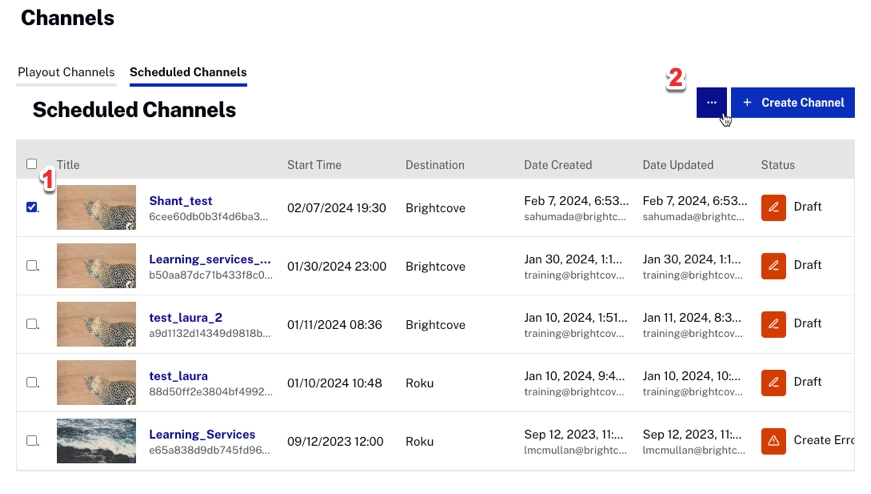
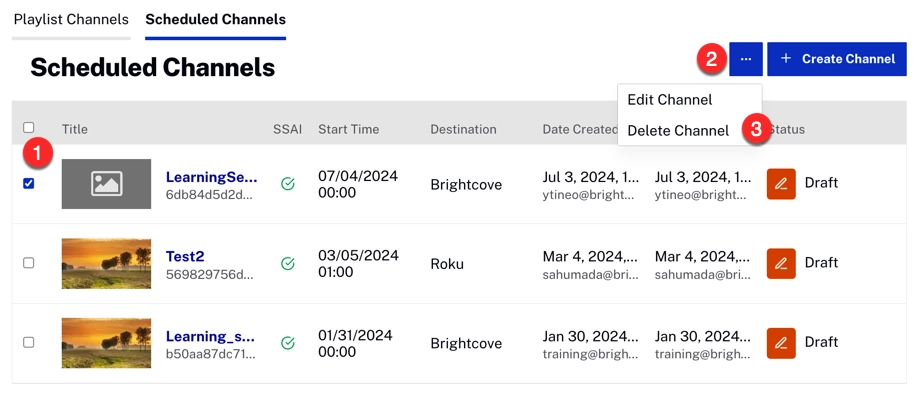
CP channels pt1

diff --git a/_site/channels/fast/getting-started.html b/_site/channels/fast/getting-started.html
@@ -3480,11 +3480,17 @@
       <li>Click <span class="button-blue">+ Create Channel</span>. 
       </li>
       <li>Enter the channel <strong>Configuration</strong> details:
-        <figure class="bcls-figure">
+        <!-- <figure class="bcls-figure">
           <img class="bcls-image" src="/assets/images/s-cloudplayout-img/fast/getting-started/new-channel.webp" alt="New channel">
-          </figcaption>  </li>
+          </figcaption>   -->
+
+          <figure class="bcls-figure">
+            <img class="bcls-image" src="/assets/images/s-cloudplayout-img/fast/getting-started/new-channel-v2.webp" alt="New channel">
+            </figcaption>
+        </li>
         <ul>
           <li><strong>Channel Name</strong> - Name for the channel. The name must have English characters and the following special characters are allowed: _ . : / = + - </li>
+          <li><strong>Enable Server Side Ad Insertion (SSAI)</strong> - Enable Server-Side Ad Insertion (SSAI). SSAI cannot be enabled or turned off after channel creation. </li>
           <li><strong>Start Date Time</strong> - Time when the channel will start playing out. This time can be updated only when the channel is not in running state.</li>
           <li><strong>Genres</strong> - Add one or more genres that describe the content of your channel. </li>
           <li><strong>Output Region</strong> - The region where the channel will be created. Brightcove recommends selecting a region geographically closest to where the majority of your audience is expected.
@@ -3505,6 +3511,9 @@
                   <li>South America (Sao Paulo)</li>
                 </ul>
           <li><strong>Destinations</strong> - Add Brightcove as a destination.</li>
+          <li><strong>New/Existing Channel</strong> - Create a new channel or select an existing channel.
+          <aside class="bcls-aside bcls-aside--information">Note: The <strong>New/Existing Channel</strong> input will only appear if the <strong>Enable Server Side Ad Insertion (SSAI)</strong> option is unchecked and Brightcove is the selected <strong>Destination</strong>.</aside>
+          </li>
         </ul>
       </li>
       <li>Click <span class="button-blue">Create Channel</span>. The new channel will be created with a status of <strong>DRAFT</strong>.</li>
@@ -3512,6 +3521,7 @@
     </ol>
     <p>To learn how to manage the Schedule Calendar, see <a href="https://studio.support.brightcove.com/channels/fast/getting-started/scheduled-calendar.html">Managing the Schedule Calendar</a>.</p></p>
   </section>
+  
   <section class="bcls-section">
     <h2 id="Deleting_a_Scheduled_Channel">Deleting a Scheduled Channel</h2>
     <p>To delete a Scheduled Channel, follow these steps: </p>
@@ -3532,7 +3542,7 @@
     <p>To edit a Scheduled Channel, follow these steps: </p>
     <ol class="bcls-tasklist-restart" style="--s:1">
       <li>Select a channel by checking the corresponding box. And then, click <span class="button-blue"><strong>...</strong></span><div class=""></div>
-        <img class="bcls-image" src="/assets/images/s-cloudplayout-img/fast/getting-started/select-channel.webp" alt="Select a Channel">
+        <img class="bcls-image" src="/assets/images/s-cloudplayout-img/fast/getting-started/select-channel-2.webp" alt="Select a Channel">
       </figcaption>  </li>
       <li>Click <strong>Edit Channel</strong>.</li>
       <li>Notice how you can modify the <strong>Metadata</strong>, <strong>Channel Output</strong> and <strong>Ads & Gaps Settings</strong> of the channel.
@@ -3548,17 +3558,20 @@
       <li>Edit Start Time</li>
       <li>Set the output region</li>
       <li>Select the destination</li>
-      <li>Add destination</li>
+      <li>Add destination and edit the new or existing channel</li>
     </ul>
     <aside class="bcls-aside bcls-aside--information language-editable">Note: Channel Output can only be updated in Draft.</aside>
-    <li><strong>Ad & Gap Settings:</strong>
+    <li><strong>Ads & Gap Settings:</strong>
     <ul>
       <li>Set the default ad pod duration.</li>
       <li>Set the slate for gap (using current slate configurations).</li>
       <li>Edit Slates.</li>
     </ul>
+    <aside class="bcls-aside bcls-aside--information language-editable">Note: Ad Configuration is only available if SSAI is enabled.</aside>
     </li>
       </ul>
+      
+
   </section>
 </article>
 
